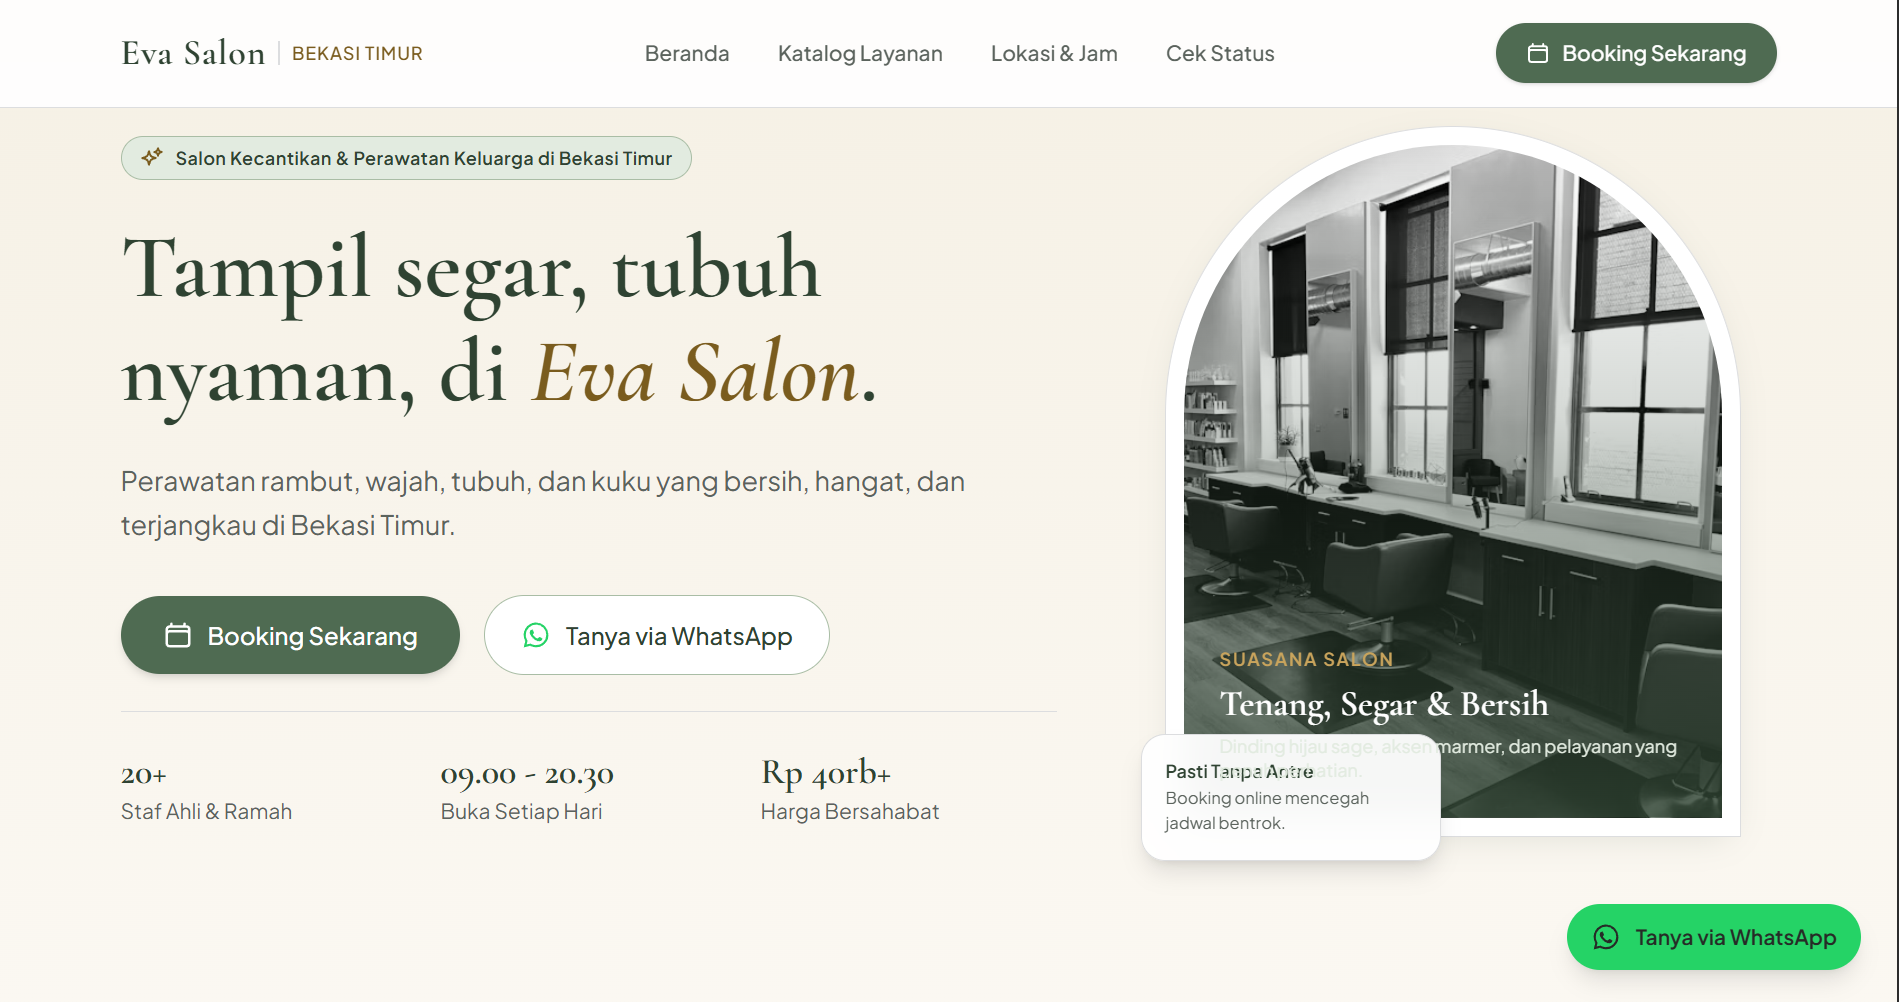
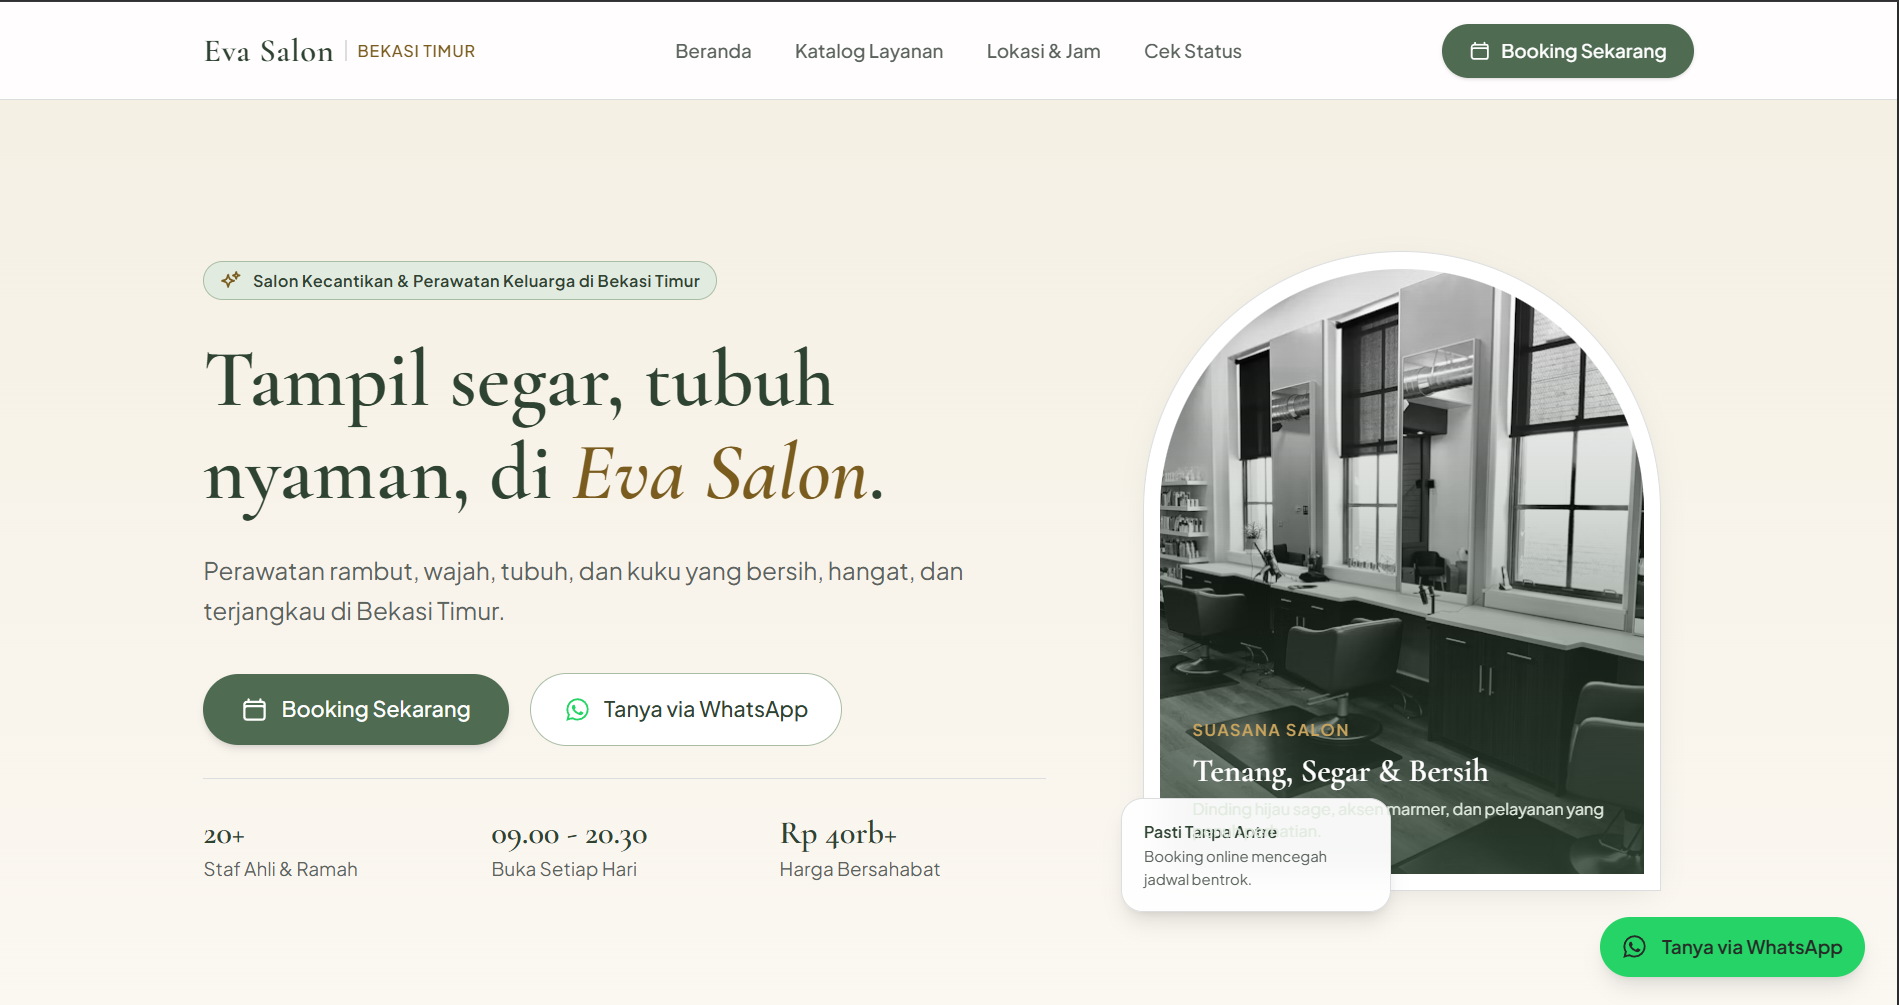
edit detail project and timeline

diff --git a/data/projects.ts b/data/projects.ts
@@ -5,7 +5,33 @@ import type { Project } from "@/lib/types";
  * Fill every "[TODO: ...]" string. Follow the order problem -> your contribution -> tech -> outcome.
  * To add a screenshot: put the file in /public/projects/ and set `image: "/projects/<file>.png"`.
  */
-export const projects: Project[] = [
+export const projects: Project[] = [  
+  {
+    slug: "eva-salon",
+    title: "Eva Salon Booking Website",
+    originalName: "Website Booking Eva Salon",
+    problem: "Manajemen jadwal dan pemesanan di Eva Salon masih manual dan rentan kesalahan",
+    role: "Fullstack Web Developer",
+    stack: ["Laravel, MySQL, Tailwind CSS"],
+    features: [
+      "Sistem pemesanan online dengan kalender interaktif",
+      "Notifikasi otomatis ke pelanggan dan staf",
+      "Dashboard administrasi untuk mengelola jadwal dan transaksi",
+    ],
+    outcome: "Meningkatkan efisiensi operasional salon, mengurangi antrian manual, dan memberikan pengalaman pelanggan yang lebih baik.",
+    architecture: "Laravel MVC app, MySQL schema, auth, where it is deployed",
+    challenges: [
+      {
+        challenge: "Potensi dua user memesan slot waktu yang sama persis secara bersamaan",
+        solution: "Menerapkan ordered pessimistic locking untuk mencegah potensi deadlock",
+      },
+    ],
+    nextSteps: ["Menghubungkan sistem ke WhatsApp Business API resmi agar pengingat jadwal terkirim otomatis"],
+    liveUrl: "https://evasalon.up.railway.app/",
+    githubUrl: "https://github.com/fathurrahmanrifaldi/eva-salon",
+    image: "/projects/evasalon-photo.png",
+    imageAlt: "Screenshot of the Eva Salon booking website",
+  },
   {
     slug: "basara",
     title: "BASARA: Waste Bank System for RW 042",
@@ -30,40 +56,14 @@ export const projects: Project[] = [
     nextSteps: ["Integrasi WhatsApp API untuk notifikasi otomatis rincian setoran dan status pencairan saldo ke ponsel warga secara real-time"],
     liveUrl: "https://basara.up.railway.app/",
     githubUrl: "https://github.com/fathurrahmanrifaldi/BASARA",
-    image: "/projects/basara.png",
+    image: "/projects/basara-photo.png",
     imageAlt: "Screenshot of the BASARA waste bank system dashboard",
   },
   {
-    slug: "eva-salon",
-    title: "Eva Salon Booking Website",
-    originalName: "Website Booking Eva Salon",
-    problem: "Manajemen jadwal dan pemesanan di Eva Salon masih manual dan rentan kesalahan",
-    role: "Fullstack Web Developer",
-    stack: ["Laravel, MySQL, Tailwind CSS"],
-    features: [
-      "Sistem pemesanan online dengan kalender interaktif",
-      "Notifikasi otomatis ke pelanggan dan staf",
-      "Dashboard administrasi untuk mengelola jadwal dan transaksi",
-    ],
-    outcome: "Meningkatkan efisiensi operasional salon, mengurangi antrian manual, dan memberikan pengalaman pelanggan yang lebih baik.",
-    architecture: "Laravel MVC app, MySQL schema, auth, where it is deployed",
-    challenges: [
-      {
-        challenge: "[TODO: a concrete problem you hit]",
-        solution: "[TODO: how you solved it]",
-      },
-    ],
-    nextSteps: ["[TODO: what you would improve next]"],
-    liveUrl: "https://evasalon.up.railway.app/",
-    githubUrl: "https://github.com/fathurrahmanrifaldi/eva-salon",
-    image: "/projects/evasalon.png",
-    imageAlt: "Screenshot of the Eva Salon booking website",
-  },
-  {
     slug: "simbako",
-    title: "Sistem Manajemen Inventaris & POS Warung Sembako Berbasis PWA",
+    title: "SIMBAKO: Sistem Manajemen Inventaris Sembako",
     originalName: "Sistem Inventaris dan Penyesuaian Stok - Warung Sembako Pak Raswan",
-    problem: "Warung sembako konvensional umumnya mengandalkan pembukuan manual di buku tulis ",
+    problem: "Warung sembako konvensional masih mengandalkan pembukuan manual di buku tulis ",
     role: "Fullstack Web Developer",
     stack: ["Laravel, PostgreSQL, Tailwind CSS"],
     features: [
@@ -75,11 +75,11 @@ export const projects: Project[] = [
     architecture: "Laravel MVC app, PostgreSQL schema, auth, where it is deployed",
     challenges: [
       {
-        challenge: "[TODO: a concrete problem you hit]",
-        solution: "[TODO: how you solved it]",
+        challenge: "Di ponsel warung (sinyal lemah), kasir sering menekan tombol \"Bayar\" berkali-kali karena respons lambat",
+        solution: "Membuat client-side idempotency key saat keranjang dibentuk",
       },
     ],
-    nextSteps: ["[TODO: what you would improve next]"],
+    nextSteps: ["Memanfaatkan *HTML5 / BarcodeDetector Web API* langsung dari kamera smartphone untuk memindai kode batang sembako"],
     liveUrl: "https://simbako.up.railway.app/login",
     githubUrl: "https://github.com/fathurrahmanrifaldi/simbako",
     image: "/projects/simbako.png",

diff --git a/data/timeline.ts b/data/timeline.ts
@@ -5,15 +5,15 @@ export const timeline: TimelineEntry[] = [
     kind: "education",
     title: "Information Systems, Undergraduate",
     org: "Universitas Bina Sarana Informatika",
-    period: "[TODO: start year] - [TODO: expected graduation]",
-    details: ["GPA 3.7 / 4.0, currently in 7th semester", "[TODO: relevant coursework or thesis topic]"],
+    period: "Sept 2023 - Now",
+    details: ["GPA 3.7 / 4.0, currently in 7th semester", "Web Programming, Database Management, and Software Engineering"],
   },
   {
     kind: "organization",
     title: "Member, Kominfo Division",
     org: "Himpunan Mahasiswa Sistem Informasi",
-    period: "[TODO: years active]",
-    details: ["[TODO: what you did in Kominfo, e.g. managed social media, built the division website]"],
+    period: "Nov 2023 - Nov 2024",
+    details: ["Organizing and managing IT-related events and activities for the student community", "Collaborating with other divisions to enhance the overall student experience"],
   },
   {
     kind: "certification",
@@ -21,7 +21,7 @@ export const timeline: TimelineEntry[] = [
     org: "LSP BSI",
     period: "2026",
     details: [],
-    link: "[TODO: credential URL]",
+    link: "https://drive.google.com/file/d/186fv-rTrWkPvfYfgB5vG6qs9zHZiAMrL/view?usp=sharing",
   },
   {
     kind: "certification",
@@ -29,6 +29,6 @@ export const timeline: TimelineEntry[] = [
     org: "IBM SkillsBuild",
     period: "2026",
     details: [],
-    link: "[TODO: credential URL]",
+    link: "https://www.credly.com/badges/d37dd459-d5a4-459e-b3b9-3f2120c8baec",
   },
 ];
